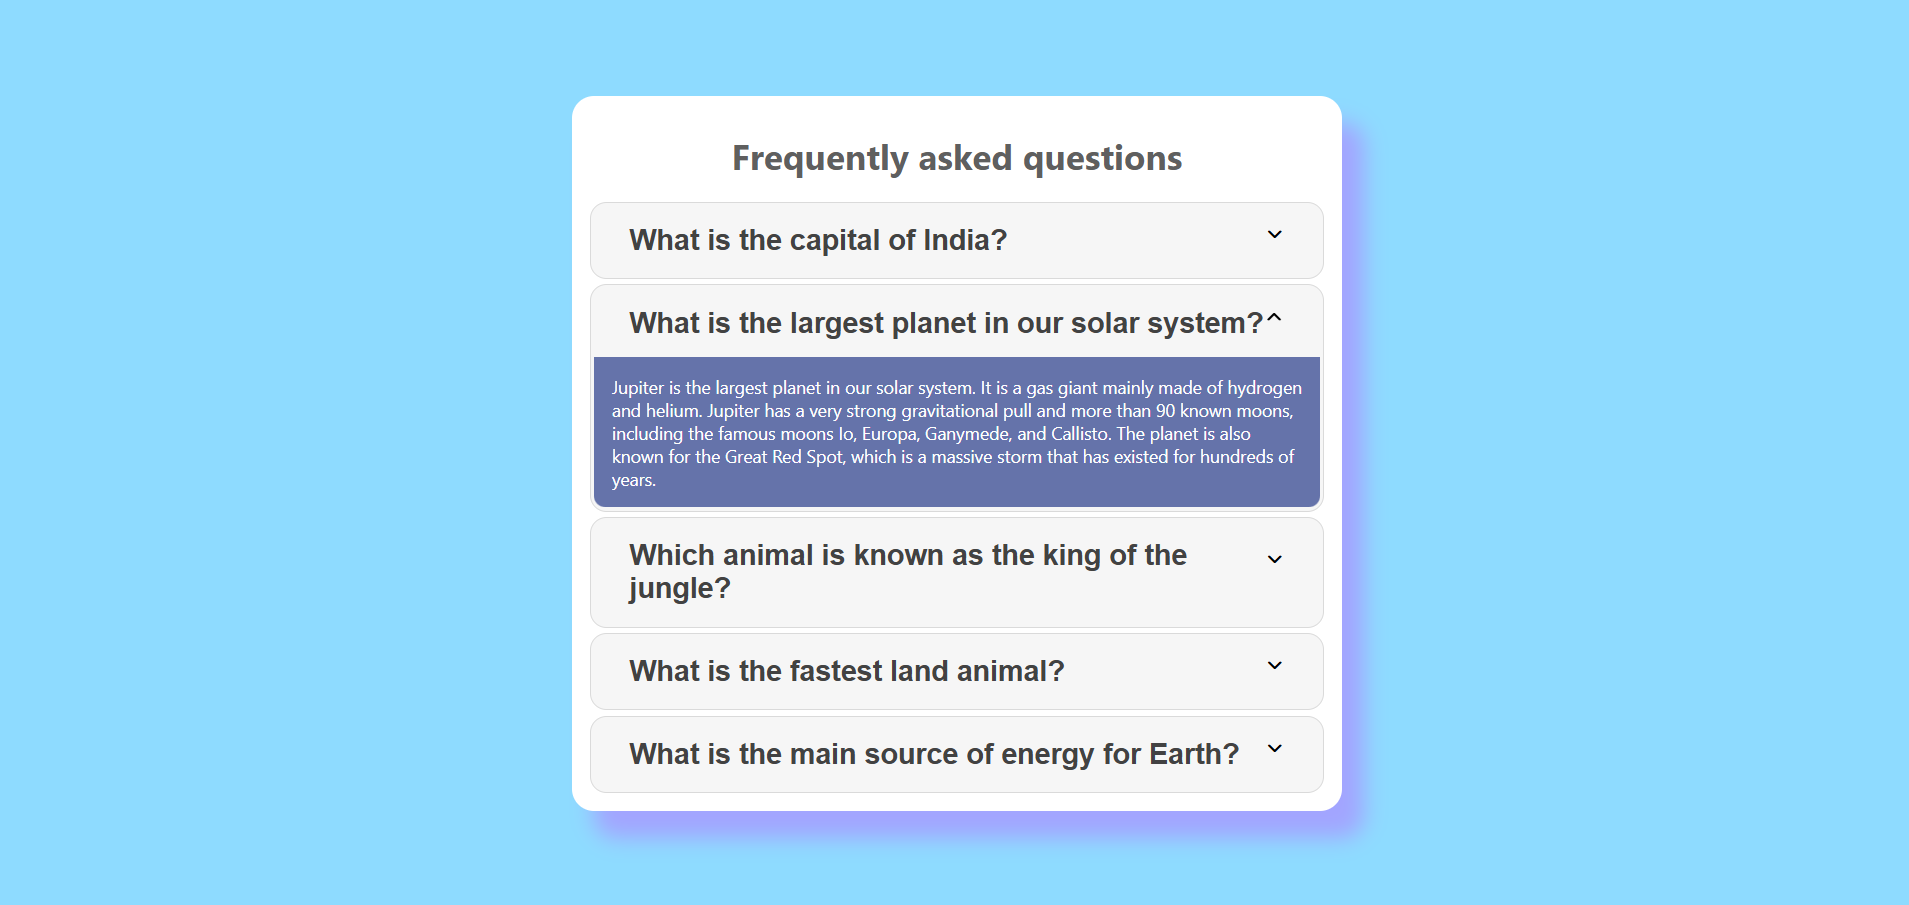
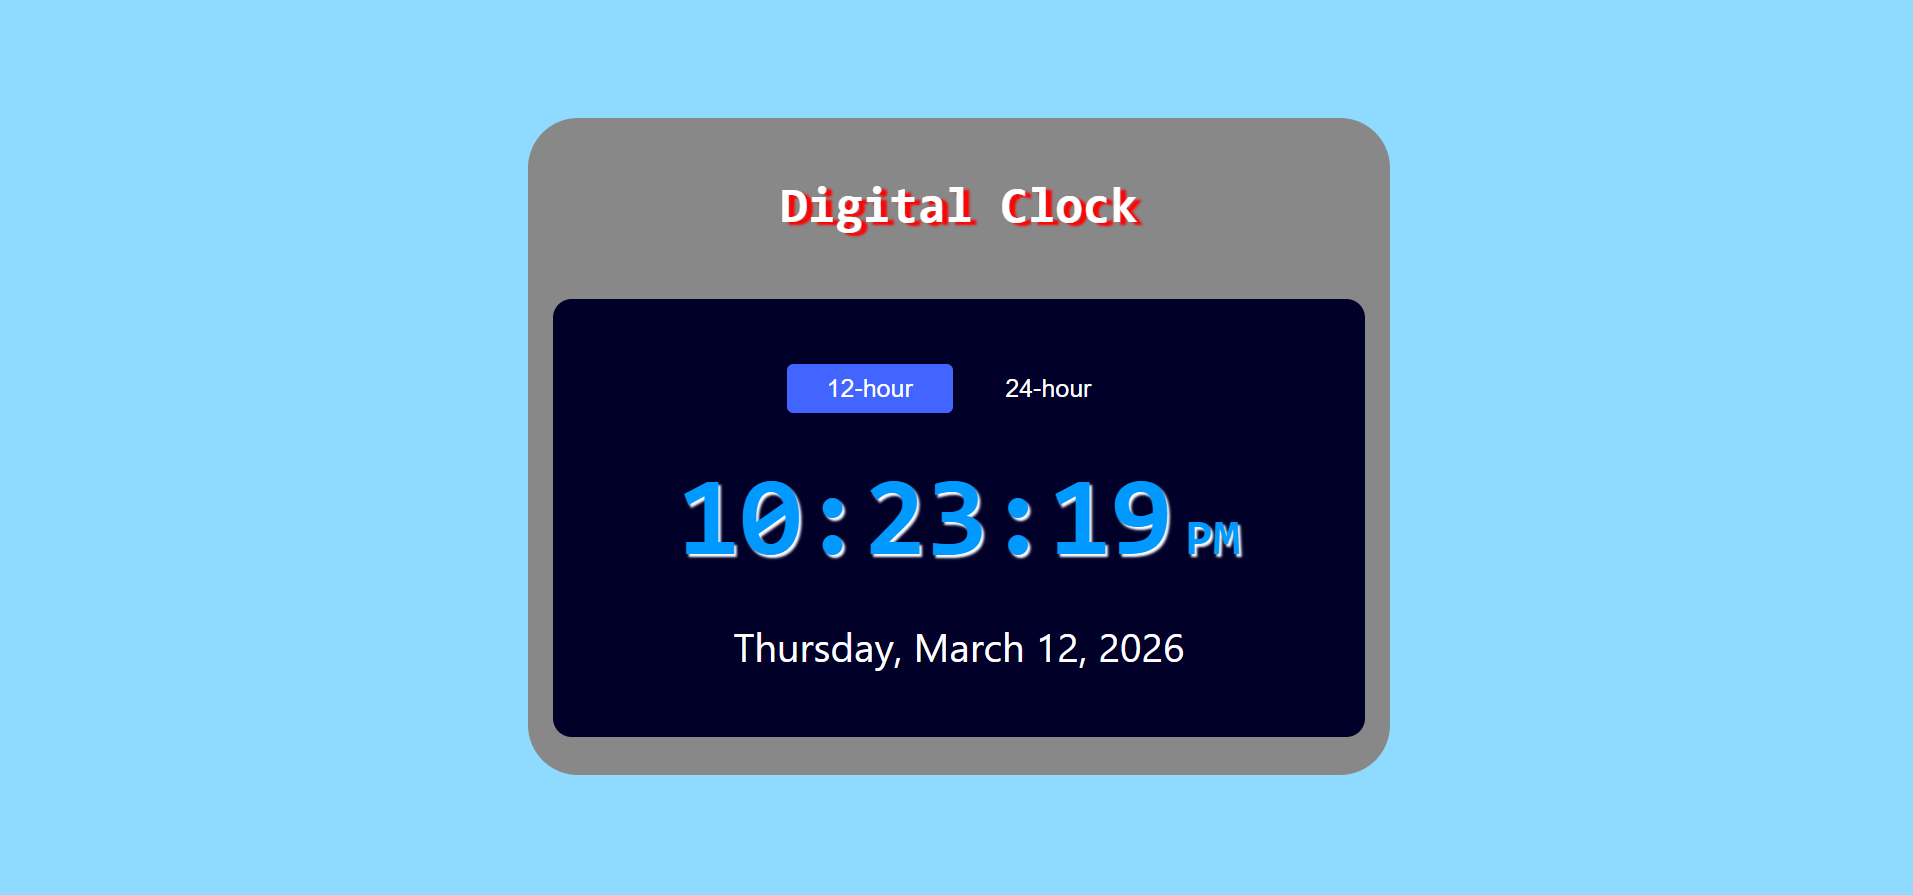
008-Digital clock MVP is ready to push to dev branch. only one API is used and rest is variable manipulation and custom css styling

diff --git a/projects/008-digital-clock/index.html b/projects/008-digital-clock/index.html
@@ -7,19 +7,52 @@
       name="description"
       content="100 Days JavaScript Commitment - A collection of 100 JavaScript projects"
     />
+    <!-- <link rel="preconnect" href="https://fonts.googleapis.com" />
+    <link rel="preconnect" href="https://fonts.gstatic.com" crossorigin /> -->
+    <!-- <link
+      href="https://fonts.googleapis.com/css2?family=Orbitron:wght@400..900&family=Poppins:ital,wght@0,100;0,200;0,300;0,400;0,500;0,600;0,700;0,800;0,900;1,100;1,200;1,300;1,400;1,500;1,600;1,700;1,800;1,900&display=swap"
+      rel="stylesheet"
+    /> -->
+    <!-- <link
+      rel="stylesheet"
+      media="screen"
+      href="https://fontlibrary.org//face/segment7"
+      type="text/css"
+    /> -->
+    <!-- <link
+      rel="stylesheet"
+      href="https://cdn.jsdelivr.net/npm/dseg@1.0.0/css/dseg.css"
+    /> -->
+
     <title>008 Digital Clock</title>
-    <link
+    <!-- <link
       rel="stylesheet"
       href="https://cdnjs.cloudflare.com/ajax/libs/font-awesome/7.0.1/css/all.min.css"
       integrity="sha512-2SwdPD6INVrV/lHTZbO2nodKhrnDdJK9/kg2XD1r9uGqPo1cUbujc+IYdlYdEErWNu69gVcYgdxlmVmzTWnetw=="
       crossorigin="anonymous"
       referrerpolicy="no-referrer"
-    />
+    /> -->
     <link rel="stylesheet" href="style.css" />
-    <style></style>
   </head>
   <body>
-    <main class="container"></main>
+    <main class="container">
+      <div class="outer-body">
+        <h1 class="heading">Digital Clock</h1>
+        <div class="clock">
+          <div class="format">
+            <button class="btn btn-12 active">12-hour</button>
+            <button class="btn btn-24">24-hour</button>
+          </div>
+          <div class="time">
+            <span class="hours">10</span><span class="colon">:</span
+            ><span class="minutes">45</span><span class="colon">:</span
+            ><span class="seconds">07</span><span class="period">AM</span>
+          </div>
+
+          <div class="date">Monday, April 22, 2026</div>
+        </div>
+      </div>
+    </main>
     <script src="script.js"></script>
   </body>
 </html>

diff --git a/projects/008-digital-clock/script.js b/projects/008-digital-clock/script.js
@@ -1,1 +1,79 @@
-console.log("Script loaded successfuly");
+const hoursEl = document.querySelector(".hours");
+const minutesEl = document.querySelector(".minutes");
+const secondsEl = document.querySelector(".seconds");
+const periodEl = document.querySelector(".period");
+const dateEl = document.querySelector(".date");
+const btn12 = document.querySelector(".btn-12");
+const btn24 = document.querySelector(".btn-24");
+let is24Hours = false;
+
+function updateClock() {
+  // console.log(is24Hours);
+
+  const now = new Date();
+  let minutes = now.getMinutes();
+  let second = now.getSeconds();
+  hours = now.getHours();
+  let period = "";
+  if (!is24Hours) {
+    period = hours >= 12 ? "PM" : "AM";
+    hours = hours % 12 || 12;
+  }
+  hoursEl.textContent = String(hours).padStart(2, 0);
+  minutesEl.textContent = String(minutes).padStart(2, 0);
+  secondsEl.textContent = String(second).padStart(2, 0);
+  periodEl.textContent = period;
+}
+updateClock();
+setInterval(() => {
+  updateClock();
+}, 1000);
+function updateDate() {
+  const monthNames = [
+    "January",
+    "February",
+    "March",
+    "April",
+    "May",
+    "June",
+    "July",
+    "August",
+    "September",
+    "October",
+    "November",
+    "December",
+  ];
+
+  const days = [
+    "Sunday",
+    "Monday",
+    "Tuesday",
+    "Wednesday",
+    "Thursday",
+    "Friday",
+    "Saturday",
+  ];
+
+  const now = new Date();
+  let date = now.getDate();
+  let year = now.getFullYear();
+  let monthName = monthNames[now.getMonth()];
+  const day = days[now.getDay()];
+  dateEl.textContent = `${day}, ${monthName} ${date}, ${year}`;
+}
+updateDate();
+
+//   button format event listeners
+btn12.addEventListener("click", () => {
+  is24Hours = false;
+  btn12.classList.add("active");
+  btn24.classList.remove("active");
+  updateClock();
+});
+
+btn24.addEventListener("click", () => {
+  is24Hours = true;
+  btn24.classList.add("active");
+  btn12.classList.remove("active");
+  updateClock();
+});

diff --git a/projects/008-digital-clock/style.css b/projects/008-digital-clock/style.css
@@ -21,3 +21,71 @@ body {
   justify-content: center;
   align-items: center;
 }
+.outer-body {
+  width: 690px;
+  min-height: 525px;
+  background-color: rgb(136, 136, 136);
+  display: flex;
+  flex-direction: column;
+  align-items: center;
+  justify-content: space-evenly;
+  border-radius: 40px;
+}
+
+.heading {
+  font-family: "DSEG7Classic-Regular", monospace;
+  font-size: 40px;
+  width: 650px;
+  text-align: center;
+  color: white;
+  border-radius: 15px;
+  padding: 1rem 2rem;
+  margin-bottom: 5px;
+  text-shadow: 5px 2px 2px red;
+}
+.clock {
+  width: 650px;
+  height: 350px;
+  background-color: rgb(1, 0, 41);
+  border-radius: 15px;
+  display: flex;
+  flex-direction: column;
+  justify-content: center;
+  align-items: center;
+  gap: 30px;
+}
+
+.format {
+  display: flex;
+  gap: 10px;
+}
+.clock .btn {
+  padding: 0.5rem 2rem;
+  border: none;
+  background: none;
+  font-size: 20px;
+  border-radius: 5px;
+  color: white;
+}
+.clock .btn:hover {
+  background: #c0ccff;
+  color: rgb(51, 51, 51);
+}
+.clock .btn.active {
+  background: #4265ff;
+}
+.time {
+  font-family: "DSEG7Classic-Regular", monospace;
+  font-size: 90px;
+  font-weight: 900;
+  color: #0099ff;
+  text-shadow: 2px 2px 2px white;
+}
+.date {
+  font-size: 32px;
+  color: white;
+}
+.period {
+  font-size: 40px;
+  margin-left: 10px;
+}
